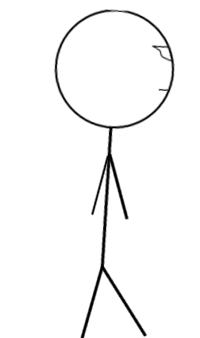
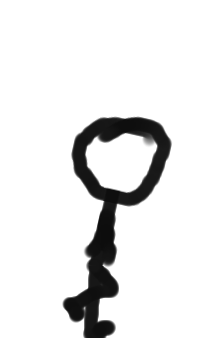
As imagens da animação do jogador, foram atualizadas. (Vou precisar de umas aulas de desenho heheh mas vai me servir por enquanto)

diff --git a/script/script.js b/script/script.js
@@ -1,6 +1,6 @@
 const teste = document.getElementById("hora")
 let contador = 0
-var FPS = 20
+var FPS = 10
 
 class Player{
 
@@ -15,8 +15,8 @@ class Player{
 
         //Carregamento de animações
         this.animacoes ={
-            andar_direita:{ diretorio: "img/andar/direita/", numero_da_imagem_atual: 0, qtd_max_img: 5},
-            andar_esquerda:{ diretorio: "img/andar/esquerda/", numero_da_imagem_atual: 0, qtd_max_img: 5}
+            andar_direita:{ diretorio: "img/andar/direita/", numero_da_imagem_atual: 0, qtd_max_img: 4},
+            andar_esquerda:{ diretorio: "img/andar/esquerda/", numero_da_imagem_atual: 0, qtd_max_img: 4}
         }
         
         //Estado do player

diff --git a/index.html b/index.html
@@ -9,7 +9,7 @@
 <body>
     <div id="wrapper">
         <div id="jogo">
-            <img src="img/player_0r.png" id="player" alt="">
+            <img src="img/andar/direita/0.png" id="player" alt="">
         </div>
         <div id="teste"> 
             <h1>Se passaram exatamente: </h1>
